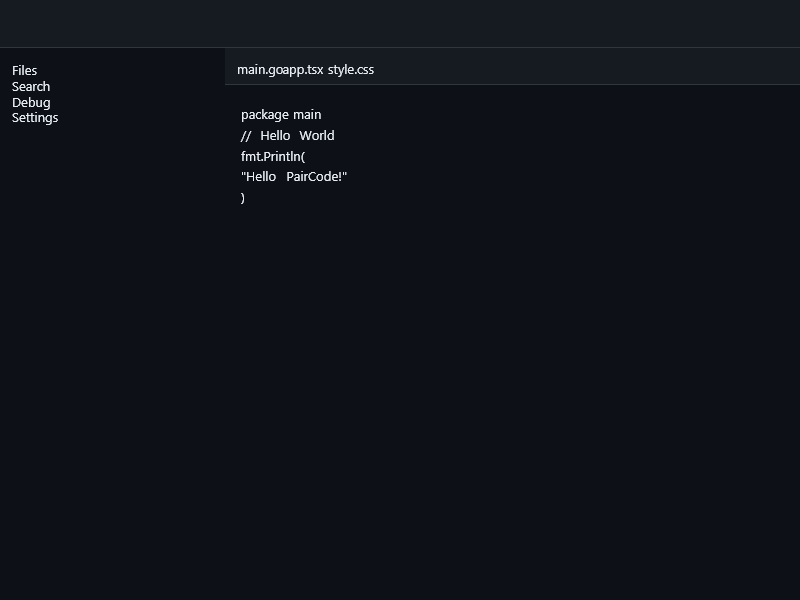
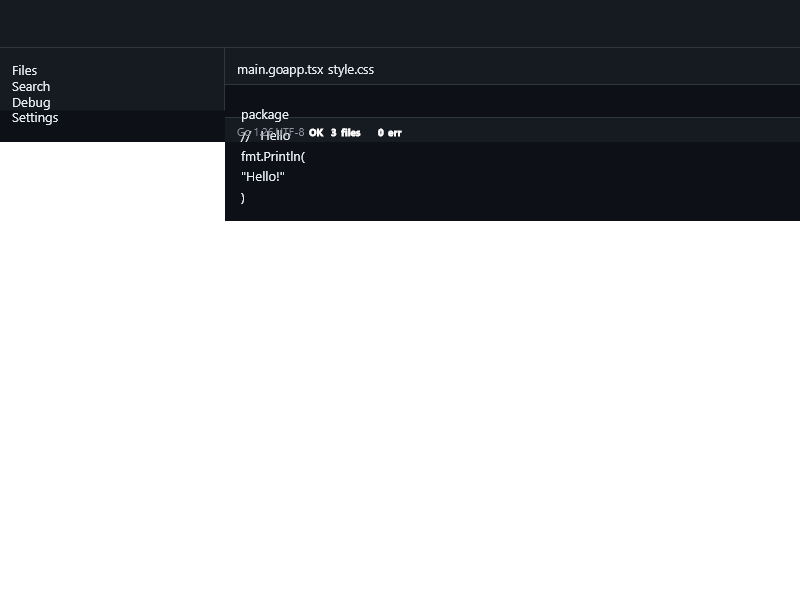
auto: fix: flex 布局嵌套容器高度计算 — stretch + flex-grow

diff --git a/cmd/static_test/main.go b/cmd/static_test/main.go
@@ -9,6 +9,7 @@ import (
 
 	"wb-ui/css"
 	"wb-ui/dom"
+	"wb-ui/layout"
 	"wb-ui/platform/graphics"
 	"wb-ui/rendering"
 	"wb-ui/style"
@@ -17,17 +18,16 @@ import (
 func main() {
 	cssText := `* { margin:0; padding:0; box-sizing:border-box; }
 body { background:#0d1117; color:#e6edf3; font-family:sans-serif; font-size:13px; }
-.header { background:#161b22; height:48px; display:flex; align-items:center; padding:0 16px; border-bottom:1px solid #30363d; font-size:14px; font-weight:bold; color:#e6edf3; }
+.header { background:#161b22; height:48px; display:flex; align-items:center; padding:0 16px; border-bottom:1px solid #30363d; font-size:14px; font-weight:bold; }
 .layout { display:flex; }
 .sidebar { width:200px; background:#161b22; border-right:1px solid #30363d; padding:12px; display:flex; flex-direction:column; }
-.sidebar .item { padding:6px 8px; border-radius:6px; color:#e6edf3; font-size:13px; }
-.sidebar .item.active { background:#1f6feb; color:#fff; }
+.sidebar .item { padding:6px 8px; color:#e6edf3; font-size:13px; }
+.sidebar .item.active { background:#1f6feb; color:#fff; border-radius:6px; }
 .main { flex:1; display:flex; flex-direction:column; }
 .toolbar { background:#161b22; height:36px; display:flex; align-items:center; padding:0 12px; border-bottom:1px solid #30363d; }
 .toolbar .tab { padding:4px 12px; border-radius:4px; font-size:12px; color:#8b949e; }
 .toolbar .tab.active { background:#1f6feb; color:#fff; }
-.content { flex:1; background:#0d1117; padding:16px; font-family:monospace; font-size:13px; line-height:1.6; color:#e6edf3; }
-.content .line { padding:2px 0; }
+.content { flex:1; background:#0d1117; padding:16px; font-family:monospace; font-size:13px; line-height:1.6; }
 .content .keyword { color:#ff7b72; }
 .content .string { color:#a5d6ff; }
 .content .comment { color:#8b949e; }
@@ -37,15 +37,12 @@ body { background:#0d1117; color:#e6edf3; font-family:sans-serif; font-size:13px
 .badge.green { background:#238636; color:#fff; }
 .badge.blue { background:#1f6feb; color:#fff; }
 `
-
 	doc := dom.NewDocument()
 	htmlEl := dom.NewElement(doc, "html")
 	doc.AppendChild(htmlEl)
-
 	styleEl := dom.NewElement(doc, "style")
 	styleEl.SetTextContent(cssText)
 	htmlEl.AppendChild(styleEl)
-
 	bodyEl := dom.NewElement(doc, "body")
 	htmlEl.AppendChild(bodyEl)
 
@@ -54,13 +51,13 @@ body { background:#0d1117; color:#e6edf3; font-family:sans-serif; font-size:13px
 	h.AppendChild(doc.CreateTextNode("IDE Header"))
 	bodyEl.AppendChild(h)
 
-	layout := dom.NewElement(doc, "div")
-	layout.SetClassName("layout")
-	bodyEl.AppendChild(layout)
+	layoutEl := dom.NewElement(doc, "div")
+	layoutEl.SetClassName("layout")
+	bodyEl.AppendChild(layoutEl)
 
 	sb := dom.NewElement(doc, "div")
 	sb.SetClassName("sidebar")
-	layout.AppendChild(sb)
+	layoutEl.AppendChild(sb)
 	for _, it := range []struct{ t, c string }{
 		{"Files", "item active"}, {"Search", "item"}, {"Debug", "item"}, {"Settings", "item"},
 	} {
@@ -72,7 +69,7 @@ body { background:#0d1117; color:#e6edf3; font-family:sans-serif; font-size:13px
 
 	mainEl := dom.NewElement(doc, "div")
 	mainEl.SetClassName("main")
-	layout.AppendChild(mainEl)
+	layoutEl.AppendChild(mainEl)
 
 	tb := dom.NewElement(doc, "div")
 	tb.SetClassName("toolbar")
@@ -90,14 +87,13 @@ body { background:#0d1117; color:#e6edf3; font-family:sans-serif; font-size:13px
 	ct.SetClassName("content")
 	mainEl.AppendChild(ct)
 	for _, l := range []struct{ cls, text string }{
-		{"keyword", "package main"},
-		{"comment", "// Hello World"},
+		{"keyword", "package"},
+		{"comment", "// Hello"},
 		{"", "fmt.Println("},
-		{"string", "\"Hello PairCode!\""},
+		{"string", "\"Hello!\""},
 		{"", ")"},
 	} {
 		line := dom.NewElement(doc, "div")
-		line.SetClassName("line")
 		span := dom.NewElement(doc, "span")
 		if l.cls != "" {
 			span.SetClassName(l.cls)
@@ -111,8 +107,7 @@ body { background:#0d1117; color:#e6edf3; font-family:sans-serif; font-size:13px
 	st.SetClassName("statusbar")
 	mainEl.AppendChild(st)
 	for _, it := range []struct{ t, c string }{
-		{"Go 1.26", ""}, {"UTF-8", ""},
-		{"OK", "badge green"}, {"3 files", "badge blue"}, {"0 err", "badge red"},
+		{"Go 1.26", ""}, {"UTF-8", ""}, {"OK", "badge green"}, {"3 files", "badge blue"}, {"0 err", "badge red"},
 	} {
 		el := dom.NewElement(doc, "span")
 		if it.c != "" {
@@ -132,13 +127,19 @@ body { background:#0d1117; color:#e6edf3; font-family:sans-serif; font-size:13px
 		fmt.Println("ERROR: RenderView is nil")
 		return
 	}
+
+	lb := rv.LayoutBox()
+	fmt.Println("=== LAYOUT TREE (pre-layout) ===")
+	dumpLB(lb, 0)
+
 	rv.SetViewportSize(800, 600)
 	rv.Layout(nil)
 
-	fmt.Println("=== RENDER TREE ===")
-	dumpTree(rv, 0)
-	fmt.Println("\n=== LAYOUT ===")
-	dumpLayout(rv, 0)
+	fmt.Println("\n=== LAYOUT TREE (post-layout) ===")
+	dumpLB(lb, 0)
+
+	fmt.Println("\n=== RENDER TREE (post-layout) ===")
+	dumpRO(rv, 0)
 
 	canvas := graphics.NewCanvas(800, 600)
 	defer canvas.Release()
@@ -164,71 +165,64 @@ body { background:#0d1117; color:#e6edf3; font-family:sans-serif; font-size:13px
 	}
 }
 
-func tagName(ro rendering.RenderObject) string {
-	n := ro.Node()
-	if n == nil {
-		return fmt.Sprintf("RO(%d)", ro.Type())
+func elName(el *dom.Element) string {
+	s := el.LocalName()
+	if c := el.ClassName(); c != "" {
+		s += "." + c
 	}
-	if el, ok := n.(*dom.Element); ok {
-		t := el.TagName()
-		if c := el.ClassName(); c != "" {
-			t += "." + c
-		}
-		return t
-	}
-	if _, ok := n.(*dom.Text); ok {
-		return "#text"
-	}
-	return fmt.Sprintf("N(%T)", n)
+	return s
 }
 
-func dumpTree(ro rendering.RenderObject, depth int) {
-	pref := ""
-	for i := 0; i < depth; i++ {
-		pref += "  "
-	}
-	fmt.Print(pref + tagName(ro))
-	if box, ok := ro.(*rendering.RenderBox); ok {
-		fr := box.FrameRect()
-		fmt.Printf("  (%d,%d) %dx%d vis=%v",
-			int(fr.X), int(fr.Y), int(fr.Width), int(fr.Height), box.IsVisible())
-	}
-	fmt.Println()
-	for ch := ro.FirstChild(); ch != nil; ch = ch.NextSibling() {
-		dumpTree(ch, depth+1)
-	}
-}
-
-func dumpLayout(ro rendering.RenderObject, depth int) {
-	pref := ""
-	for i := 0; i < depth; i++ {
-		pref += "  "
-	}
-	cs := ro.Style()
-	if cs == nil {
-		fmt.Printf("%s%-20s (no style)\n", pref, tagName(ro))
+func dumpLB(lb *layout.LayoutBox, depth int) {
+	if lb == nil {
 		return
 	}
-	bg := "none"
-	if cs.BackgroundColor.A > 0 {
-		bg = fmt.Sprintf("#%02x%02x%02x",
-			cs.BackgroundColor.R, cs.BackgroundColor.G, cs.BackgroundColor.B)
+	pref := ""
+	for i := 0; i < depth; i++ {
+		pref += "  "
 	}
-	clr := "none"
-	if cs.Color.A > 0 {
-		clr = fmt.Sprintf("#%02x%02x%02x",
-			cs.Color.R, cs.Color.G, cs.Color.B)
+	elStr := "(anon)"
+	if lb.Element != nil {
+		elStr = elName(lb.Element)
+	}
+	disp := "nil"
+	if lb.Style != nil {
+		disp = fmt.Sprintf("%v", lb.Style.Display)
+	}
+	fmt.Printf("%s%-18s %-6s (%5.0f,%5.0f) %5.0fx%5.0f disp=%s\n",
+		pref, elStr, lb.Type, lb.Rect.X, lb.Rect.Y, lb.Rect.Width, lb.Rect.Height, disp)
+	for _, c := range lb.Children {
+		dumpLB(c, depth+1)
+	}
+}
+
+func dumpRO(ro rendering.RenderObject, depth int) {
+	pref := ""
+	for i := 0; i < depth; i++ {
+		pref += "  "
+	}
+	n := ro.Node()
+	elStr := "(none)"
+	if n != nil {
+		if el, ok := n.(*dom.Element); ok {
+			elStr = elName(el)
+		} else if _, ok := n.(*dom.Text); ok {
+			elStr = "#text"
+		}
+	}
+	lb := ro.LayoutBox()
+	lbStr := "no-lb"
+	frStr := ""
+	if lb != nil {
+		lbStr = fmt.Sprintf("lb=(%5.0f,%5.0f %5.0fx%5.0f)", lb.Rect.X, lb.Rect.Y, lb.Rect.Width, lb.Rect.Height)
 	}
 	if box, ok := ro.(*rendering.RenderBox); ok {
 		fr := box.FrameRect()
-		fmt.Printf("%s%-20s (%4.0f,%4.0f) %4.0fx%4.0f %-6s bg=%s clr=%s\n",
-			pref, tagName(ro), fr.X, fr.Y, fr.Width, fr.Height, cs.Display, bg, clr,
-		)
-	} else {
-		fmt.Printf("%s%-20s %-6s bg=%s clr=%s\n", pref, tagName(ro), cs.Display, bg, clr)
+		frStr = fmt.Sprintf("  fr=(%5.0f,%5.0f %5.0fx%5.0f) vis=%v", fr.X, fr.Y, fr.Width, fr.Height, box.IsVisible())
 	}
+	fmt.Printf("%s%-18s %s%s\n", pref, elStr, lbStr, frStr)
 	for ch := ro.FirstChild(); ch != nil; ch = ch.NextSibling() {
-		dumpLayout(ch, depth+1)
+		dumpRO(ch, depth+1)
 	}
 }
 
